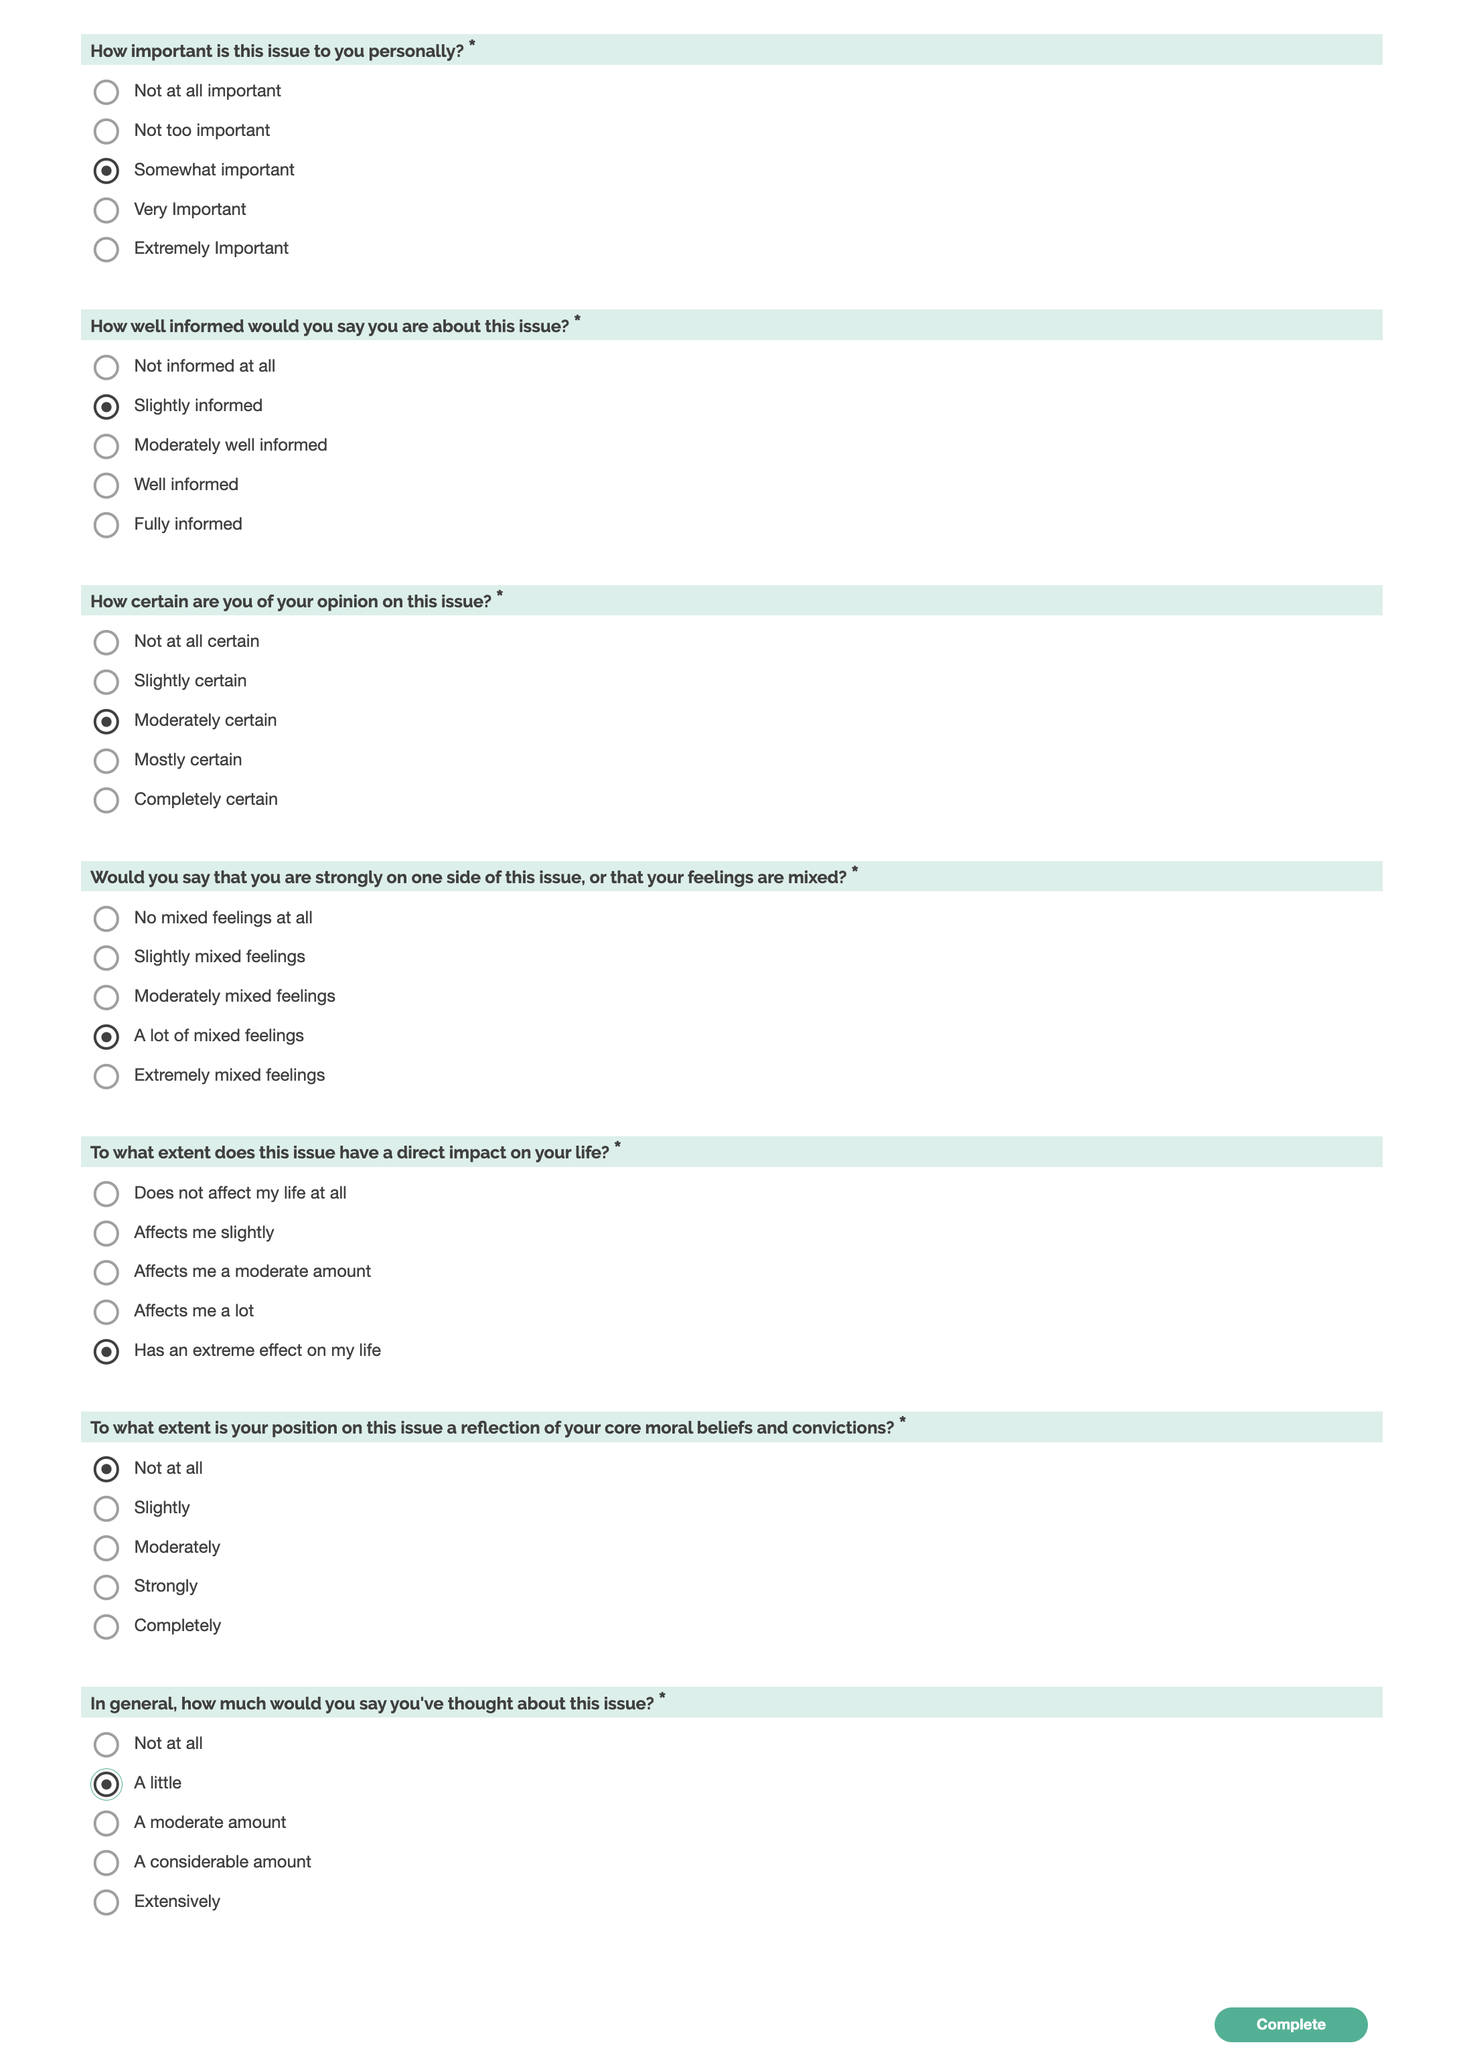
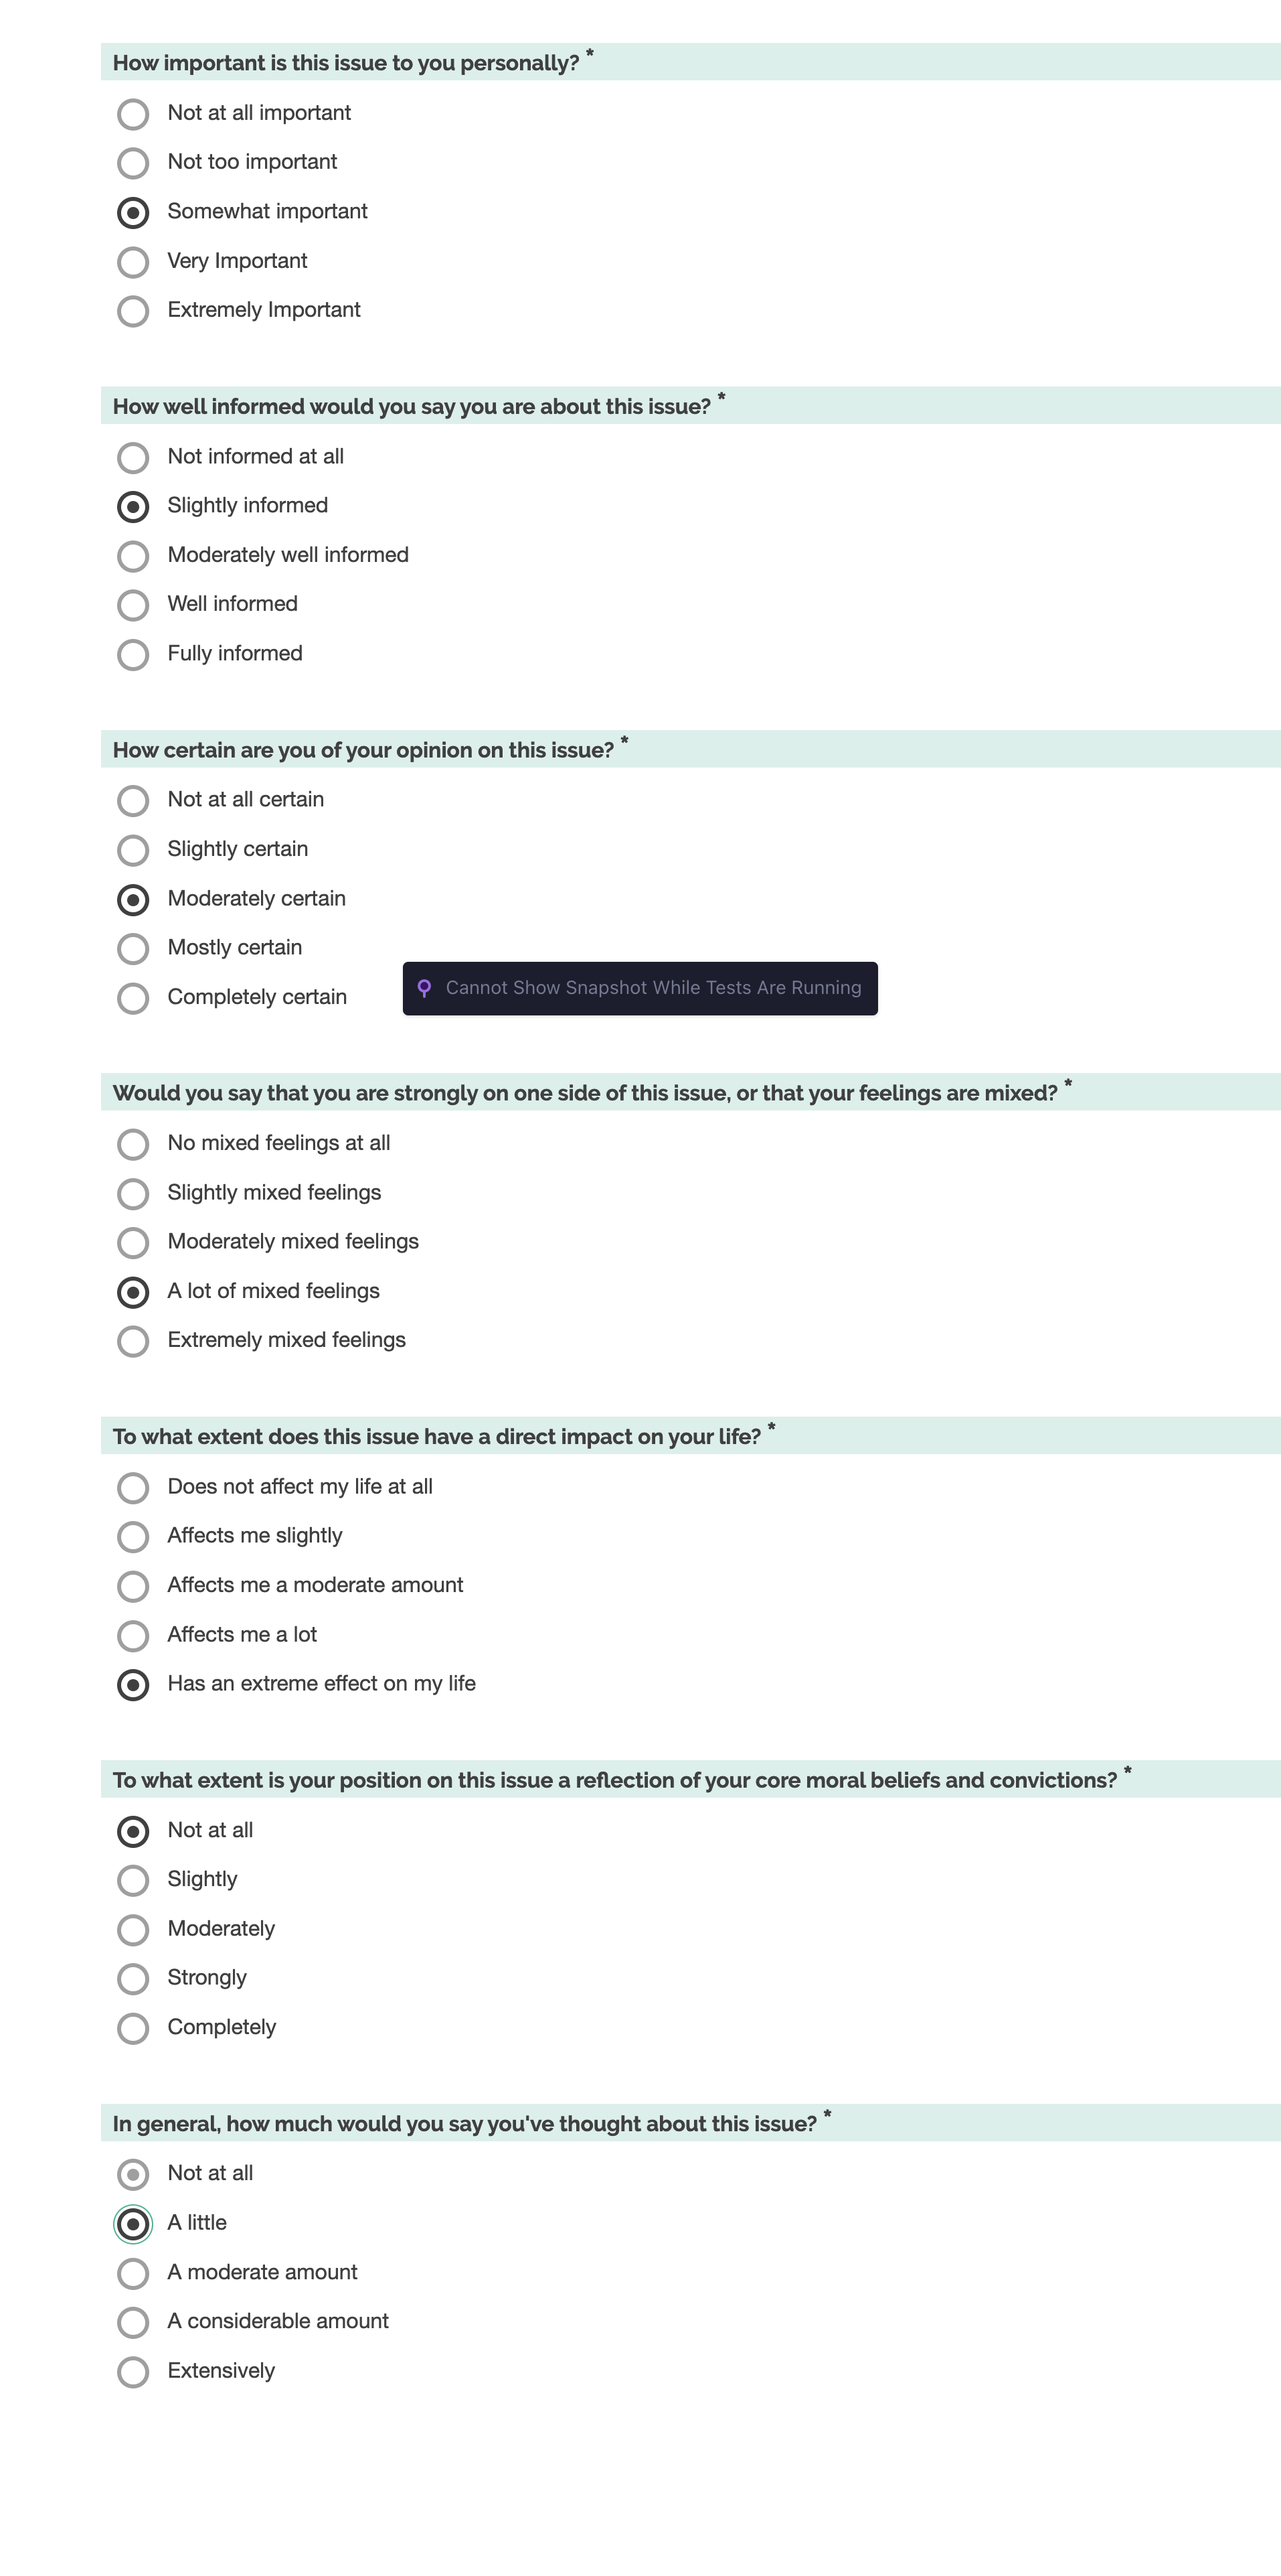
added CRT cypress test

diff --git a/surveys/CRT/CRT.cy.jsx b/surveys/CRT/CRT.cy.jsx
@@ -1,35 +1,52 @@
-// superSpecialSurvey.cy.js
-
 import React from "react";
-import { CRT } from "../../src/index.js";
+import { CRT } from "../../src/index";
+
+const surveyJsonPath = "surveys/CRT/CRT.json";
+
+// Initialize an empty answers object
 
 const dummy = {
   set(response) {},
 };
 
-describe("CRt", () => {
-  it("completes", () => {
+describe("RMETTen", () => {
+  it("completes the survey", () => {
     cy.spy(dummy, "set").as("callback");
-    cy.mount(<SuperSpecialSurvey onComplete={dummy.set} />);
+    cy.mount(<CRT onComplete={dummy.set} />);
+    cy.viewport("macbook-11");
 
-    cy.get('[data-responsive-title="Disagree"] input').click({
-      multiple: true,
-      timeout: 6000,
-      force: true,
-    });
+    cy.readFile(surveyJsonPath).then((surveyJson) => {
+      surveyJson.pages.forEach((page) => {
+        page.elements.forEach((element) => {
+          const numberToEnter = 15;
 
-    cy.get("form") // submit surveyJS form
-      .then(($form) => {
-        cy.wrap($form.find('input[type="button"][value="Complete"]')).click();
+          cy.get(
+            `[data-name="${element.name}"] input[type="${element.inputType}"]`
+          ).type(numberToEnter);
+
+          cy.get(
+            `[data-name="${element.name}"] input[type="${element.inputType}"]`
+          ).should("have.value", numberToEnter.toString());
+        });
       });
 
-    cy.get(".sv-body").should("not.exist"); // test for completion message
+      cy.screenshot("CRT/screenshot", {
+        overwrite: true,
+      });
 
-    cy.get("@callback").should("have.been.called");
-    cy.get("@callback").then((spy) => {
-      const spyCall = spy.getCall(-1).args[0];
-      console.log(spyCall);
-      expect(spyCall["result"]["rawScore"]).to.eq(0.6);
+      cy.get("form") // submit surveyJS form
+        .then(($form) => {
+          cy.wrap($form.find('input[type="button"][value="Complete"]')).click();
+        });
+
+      cy.get(".sv-body").should("not.exist");
+
+      cy.get("@callback").should("have.been.called");
+      cy.get("@callback").then((spy) => {
+        const spyCall = spy.getCall(-1).args[0];
+        console.log(spyCall);
+        expect(spyCall["result"]["score"]).to.eq(2.0);
+      });
     });
   });
 });

diff --git a/surveys/CRT/CRT.score.js b/surveys/CRT/CRT.score.js
@@ -1,0 +1,31 @@
+// drill_hammer	A drill and a hammer cost $330 in total. The drill costs $300 more than the hammer. How much does the hammer cost?	number	15	Please only write the numeric answer to the following questions.
+// rachel	Rachel is the 10th tallest and the 10th shortest girl in her class. How many girls are in her class?	number	19	Please only write the numeric answer to the following questions.
+// toaster	When on sale for 20% off, a toaster costs $100. What does it cost when not on sale?	number	125	Please only write the numeric answer to the following questions.
+// apples	In a pail of 60 apples, red apples are 3 times more common than green ones. How many are green?	number	15	Please only write the numeric answer to the following questions.
+// eggs	After hatching from its egg, a baby bird doubles in weight every day. By day 12 it weighs a pound. On what day does the bird weigh half a pound?	number	11	Please only write the numeric answer to the following questions.
+// dog_cat	A dog and a cat weigh 100 pounds in total. The dog weighs 86 pounds. What is the difference in weight between the dog and the cat?	number	72	Please only write the numeric answer to the following questions.
+
+const answers = {
+  drill_hammer: 15,
+  rachel: 19,
+  toaster: 125,
+  apples: 15,
+  eggs: 11,
+  dog_cat: 72,
+};
+
+export default function scoreFunc(responses) {
+  // Calculate score
+  let score = 0;
+
+  Object.keys(answers).forEach((questionName) => {
+    const response = responses[questionName];
+    const answer = answers[questionName];
+
+    if (response === answer) {
+      score += 1;
+    }
+  });
+
+  return { score: score, maxScore: 6, minScore: 0, responses: responses };
+}

diff --git a/src/index.js b/src/index.js
@@ -34,6 +34,11 @@ import constructiveListeningBehaviorsSelfSha from "../surveys/constructiveListen
 import { default as constructiveListeningBehaviorsSelfScoreFunc } from "../surveys/constructiveListeningBehaviorsSelf/constructiveListeningBehaviorsSelf.score.js";
 export const ConstructiveListeningBehaviorsSelf = SurveyFactory("constructiveListeningBehaviorsSelf", constructiveListeningBehaviorsSelfJson, constructiveListeningBehaviorsSelfScoreFunc, constructiveListeningBehaviorsSelfSha);
 
+import CRTJson from "../surveys/CRT/CRT.json";
+import CRTSha from "../surveys/CRT/sha.json";
+import { default as CRTScoreFunc } from "../surveys/CRT/CRT.score.js";
+export const CRT = SurveyFactory("CRT", CRTJson, CRTScoreFunc, CRTSha);
+
 import demographicsJson from "../surveys/demographics/demographics.json";
 import demographicsSha from "../surveys/demographics/sha.json";
 import { default as demographicsScoreFunc } from "../surveys/demographics/demographics.score.js";
